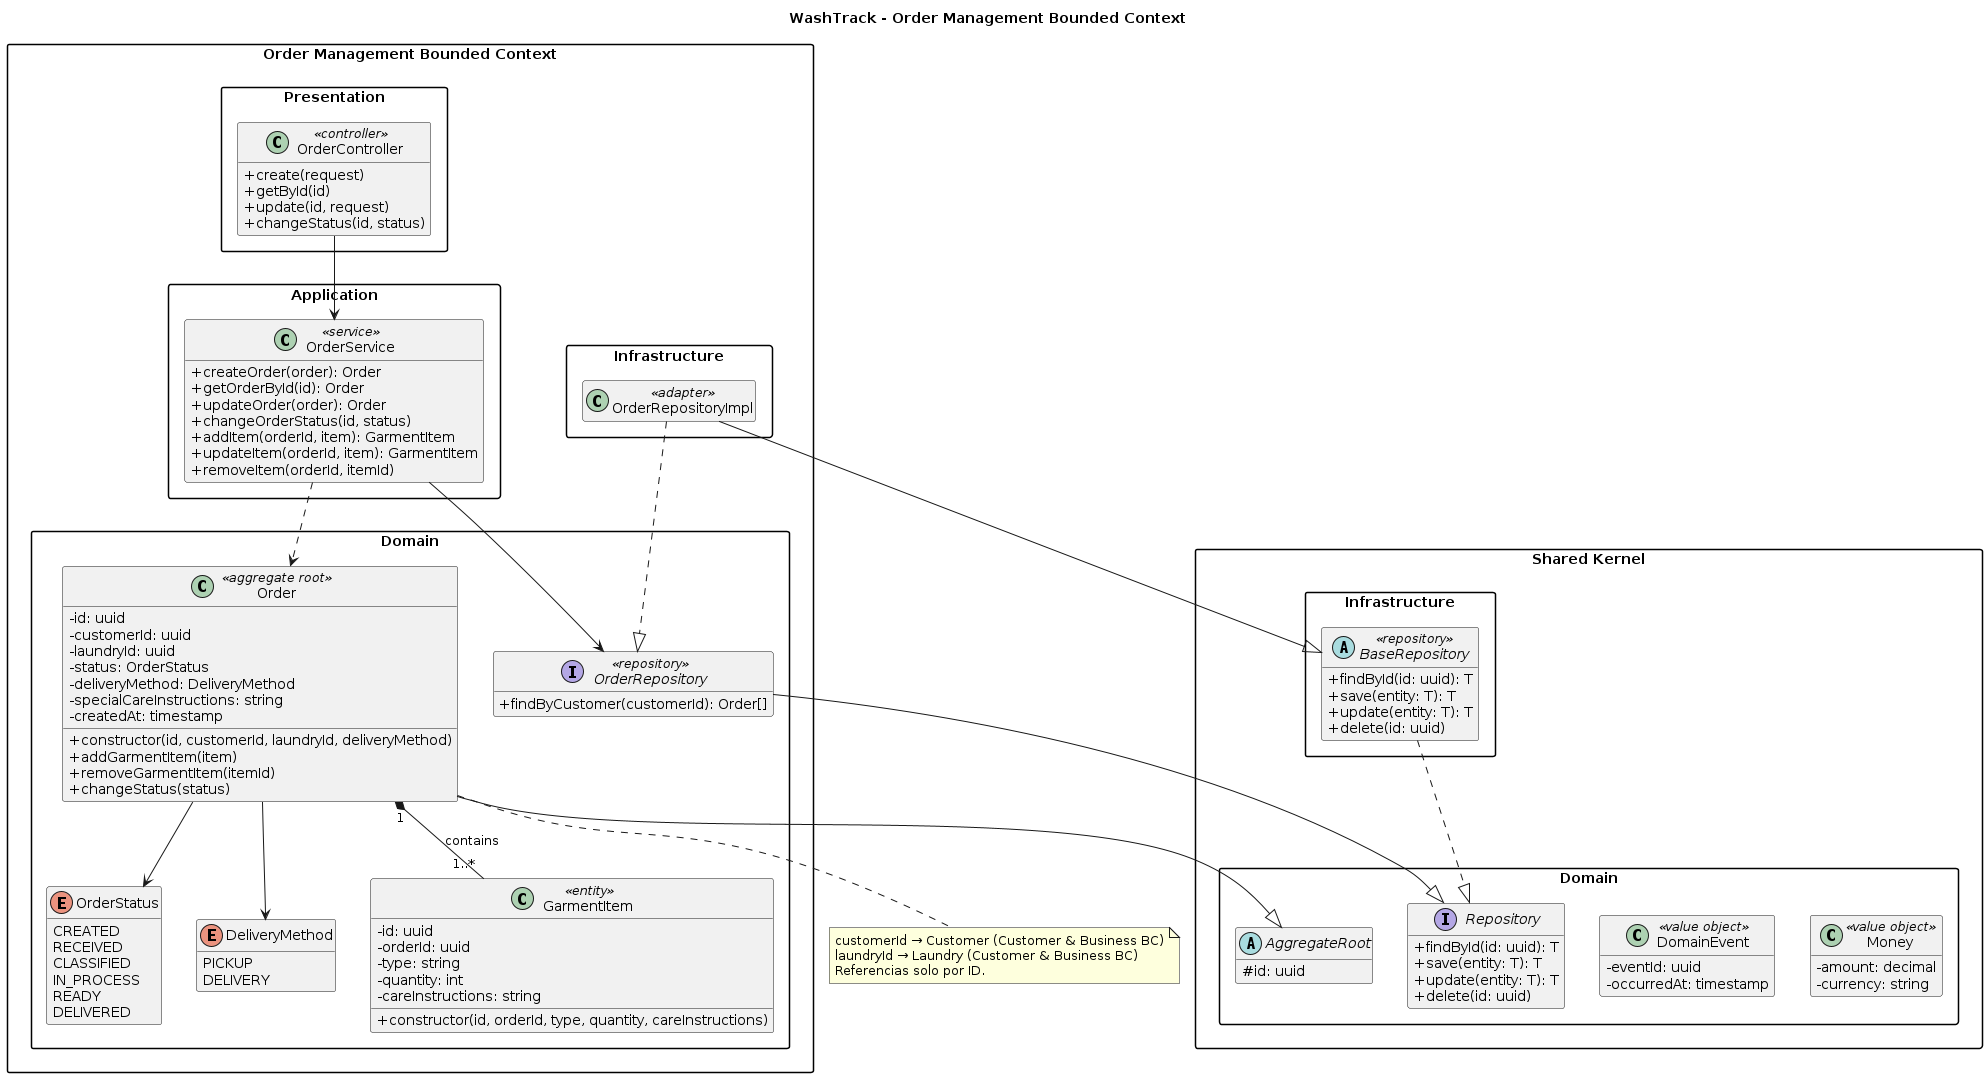
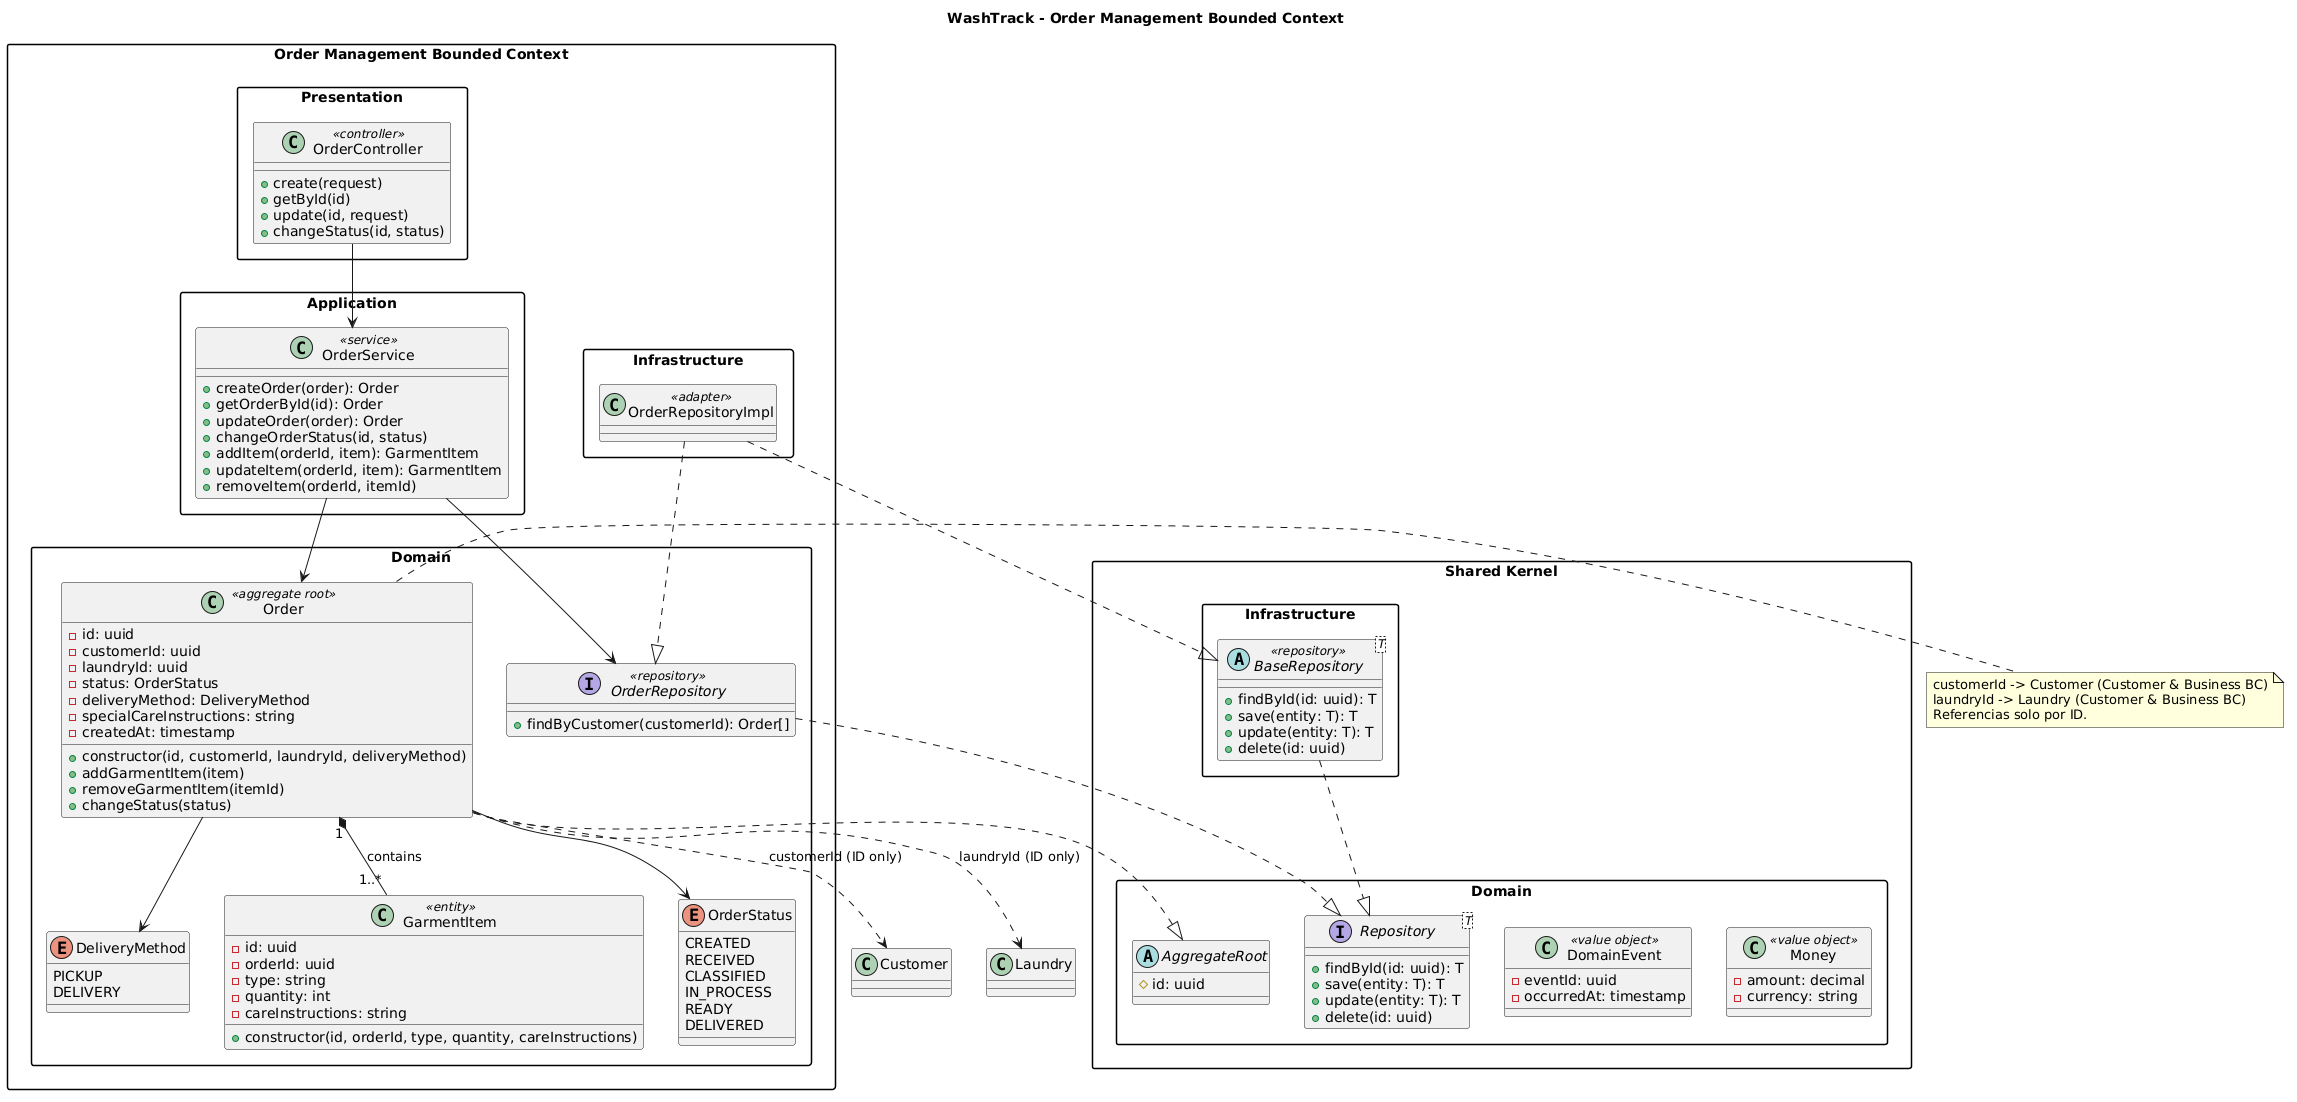
docs: actualizar diagramas de clases y referencias en el reporte

diff --git a/README.md b/README.md
@@ -3034,10 +3034,16 @@ A continuación se presenta primero la vista general de los Bounded Contexts y l
     <img src="assets/img/Chapter4/class-diagram-identity-access.png" alt="Class diagram Identity & Access" width="100%"/>
 </div>
 
+**Identity & Access Services Model**
+
+<div align="center">
+    <img src="assets/img/Chapter4/class-diagram-iam-services.png" alt="Class diagram Identity & Access Services" width="100%"/>
+</div>
+
 **Customer & Business Management Bounded Context**
 
 <div align="center">
-    <img src="assets/img/Chapter4/class-diagram-customer-business.png" alt="Class diagram Customer & Business Management" width="100%"/>
+    <img src="assets/img/Chapter4/class-diagram-customer-business-management.png" alt="Class diagram Customer & Business Management" width="100%"/>
 </div>
 
 **Order Management Bounded Context**
@@ -3067,7 +3073,7 @@ A continuación se presenta primero la vista general de los Bounded Contexts y l
 **Shared Kernel**
 
 <div align="center">
-    <img src="assets/img/Chapter4/class-diagram-shared.png" alt="Class diagram Shared Kernel" width="100%"/>
+    <img src="assets/img/Chapter4/class-diagram-shared-kernel.png" alt="Class diagram Shared Kernel" width="100%"/>
 </div>
 
 
